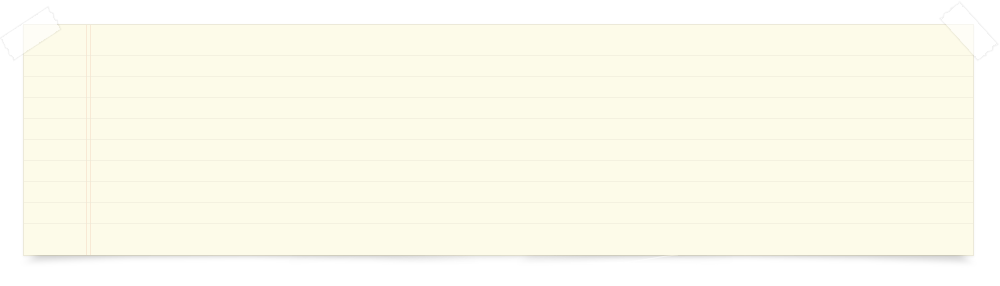
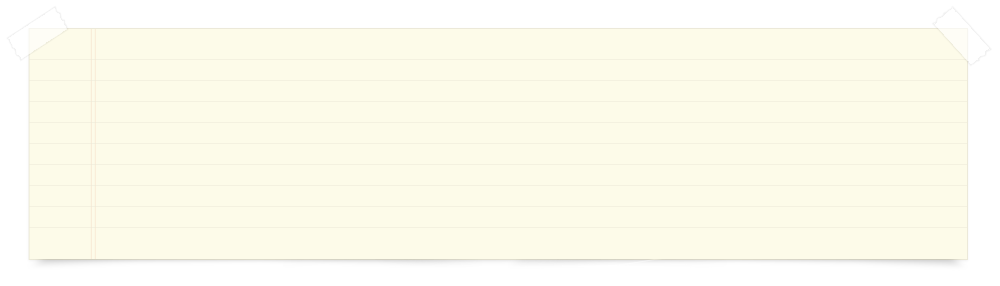
Fixed resume spacing details and paper image.

Changed region(s): [[0.031, 0.8671, 0.961, 0.9231], [0.062, 0.0839, 0.93, 0.1119]]

diff --git a/front_end/style.css b/front_end/style.css
@@ -628,7 +628,7 @@ ul.sidebar {
 	display: block;
 	width: 1000px;
 	height: 300px;
-	margin: 0px 0px 0px -21px;
+	margin: 0px 0px 0px -25px;
 	background: url(img/paper_bg.png) no-repeat 0px 0px;
 }
 .resume .profile img { margin: 62px 20px 0px 48px; float: left; }
@@ -648,14 +648,14 @@ ul.sidebar {
 	color: #FFF;
 	text-decoration: none;
 } 
-.resume .renglon { margin: 0px 0px 35px 0px; overflow: hidden; }
+.resume .renglon { width: 950px; margin: 0px 0px 35px 2px; overflow: hidden; }
 .resume .renglon.experience { margin: 0px 0px 35px 0px; }
 .resume .renglon.projects { margin: 0px 0px 10px 0px; }
 .resume .renglon.education { margin: 0px 0px 10px 0px; }
 .resume .renglon.recomendation { margin: 0px 0px 35px 0px; }
 .resume .renglon .heading { overflow: hidden; margin: 0px 0px 15px 0px; }
 .resume .renglon .heading h1 {
-	width: 888px;
+	width: 875px;
 	float: left;
 	font-family: 'Quicksand Light';
 	font-weight: normal;
@@ -667,7 +667,7 @@ ul.sidebar {
 .resume .renglon.projects .heading h1 { background: url(img/resume_headings_bg.png) no-repeat 173px 7px; }
 .resume .renglon.education .heading h1 { background: url(img/resume_headings_bg.png) no-repeat 173px 7px; }
 .resume .renglon.recomendation .heading h1 { background: url(img/resume_headings_bg.png) no-repeat 287px 7px; }
-.resume .renglon .heading div.nav { float: right; margin: 7px 0px 0px 0px; }
+.resume .renglon .heading div.nav { float: right; margin: 7px 8px 0px 0px; }
 .resume .renglon .heading div.nav span { 
 	display: block; 
 	float: left;
